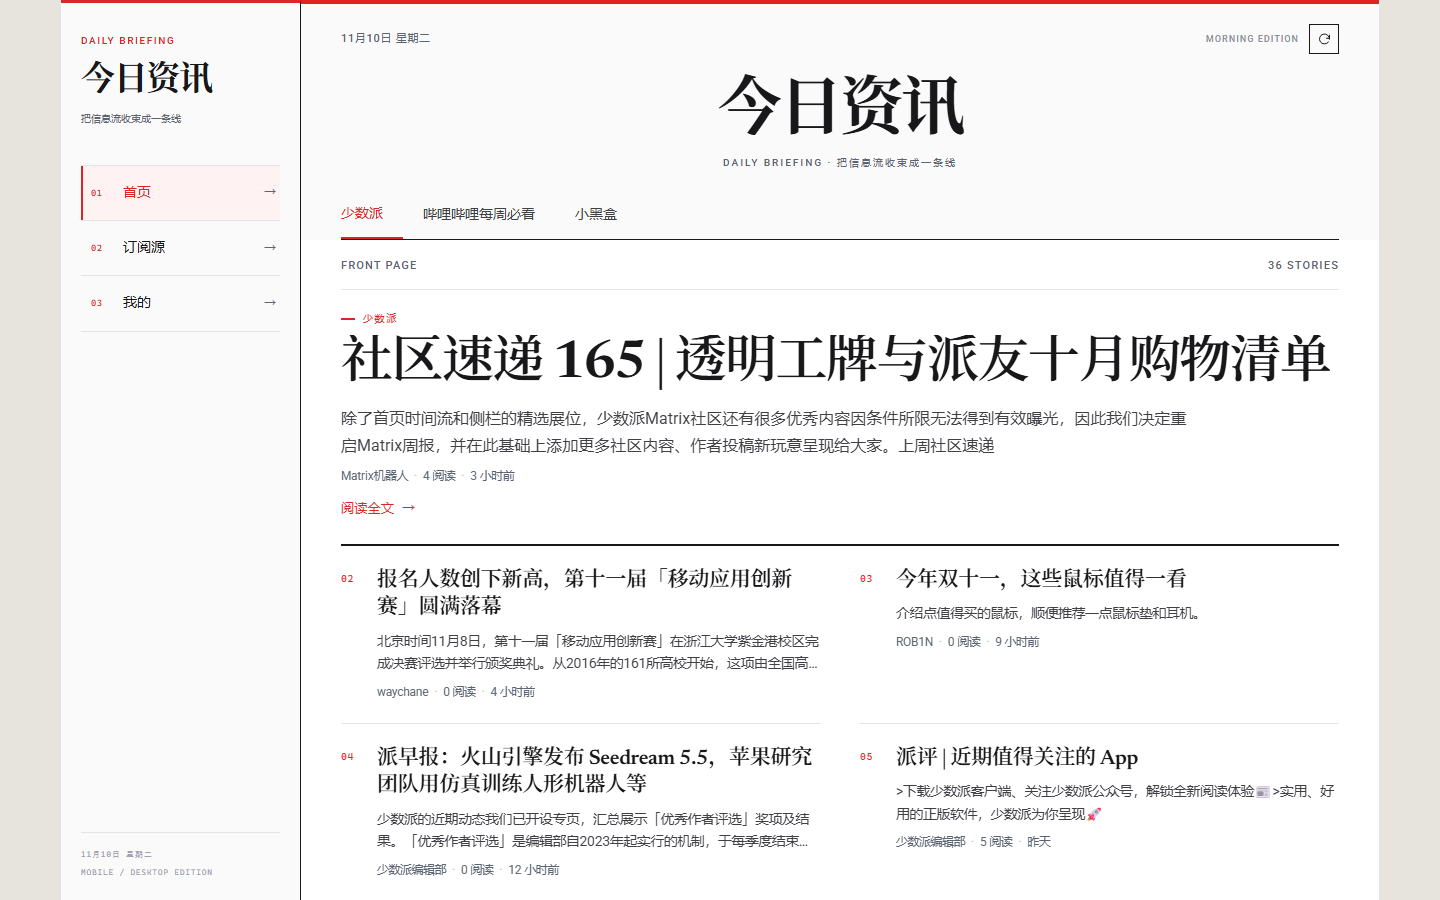
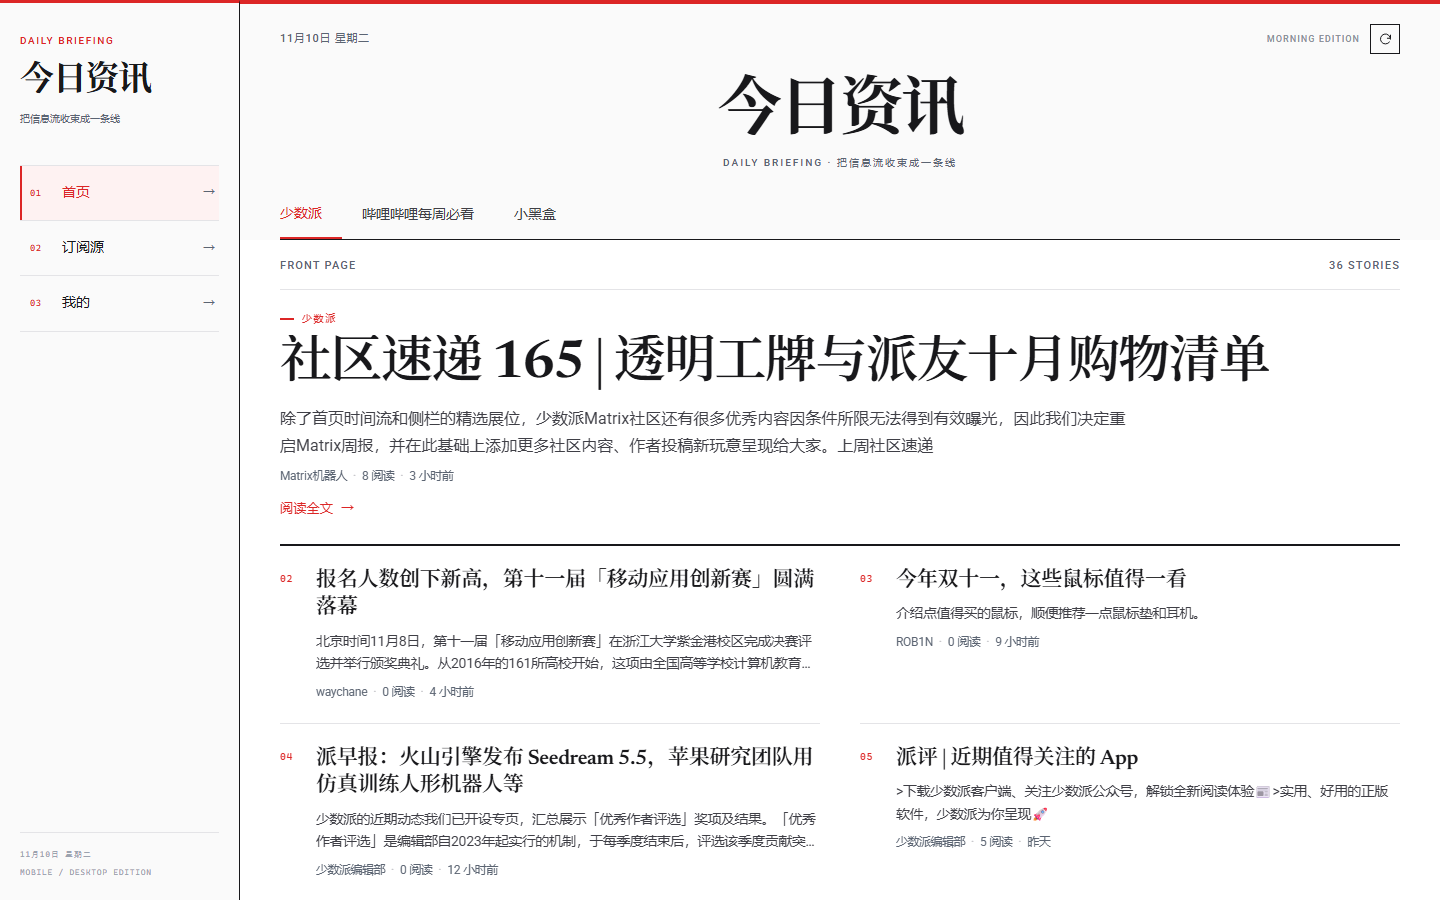
fix(frontend): make desktop layout full-bleed

diff --git a/frontend/src/views/ProfileView.vue b/frontend/src/views/ProfileView.vue
@@ -988,9 +988,9 @@ function doLogout() {
   .head-top,
   .guest,
   .me {
-    max-width: 900px;
-    margin-right: auto;
-    margin-left: auto;
+    max-width: none;
+    margin-right: 0;
+    margin-left: 0;
   }
 
   .me {
@@ -1015,12 +1015,12 @@ function doLogout() {
 
   .scroll {
     width: 100%;
-    max-width: 900px;
-    margin: 0 auto;
+    max-width: none;
+    margin: 0;
   }
 
   .tab {
-    padding: 18px 20px 15px;
+    padding: 18px 40px 15px;
   }
 
   .tab b {
@@ -1028,15 +1028,15 @@ function doLogout() {
   }
 
   .panel-head {
-    padding: 16px 18px 12px;
+    padding: 16px 40px 12px;
   }
 
   .list {
-    padding: 0 18px;
+    padding: 0 40px;
   }
 
   .account-actions {
-    padding: 28px 18px 0;
+    padding: 28px 40px 0;
   }
 
   .logout {

diff --git a/frontend/src/components/NewsFeed.vue b/frontend/src/components/NewsFeed.vue
@@ -144,8 +144,8 @@ defineExpose({ refresh })
     display: grid;
     grid-template-columns: minmax(0, 1fr) minmax(0, 1fr);
     column-gap: 40px;
-    max-width: 1080px;
-    margin: 0 auto;
+    max-width: none;
+    margin: 0;
     padding: 0 40px;
   }
 
@@ -161,6 +161,12 @@ defineExpose({ refresh })
 
   .feed :deep(.footer) {
     grid-column: 1 / -1;
+  }
+}
+
+@media (min-width: 1800px) {
+  .feed {
+    grid-template-columns: repeat(3, minmax(0, 1fr));
   }
 }
 </style>

diff --git a/frontend/src/styles/main.css b/frontend/src/styles/main.css
@@ -293,15 +293,15 @@ button:disabled {
   }
 }
 
-/* 桌面端：左侧导航 + 右侧内容区 */
+/* 桌面端：左侧导航 + 右侧内容区，整屏铺满 */
 @media (min-width: 960px) {
   body {
-    background: #e7e3dd;
+    background: var(--paper);
   }
   .app {
     flex-direction: row;
-    max-width: 1320px;
-    border-top: 0;
-    border-bottom: 0;
+    width: 100%;
+    max-width: none;
+    border: 0;
   }
 }

diff --git a/frontend/src/views/RssView.vue b/frontend/src/views/RssView.vue
@@ -556,20 +556,21 @@ h1 {
 
   .scroll {
     width: 100%;
-    max-width: 940px;
-    margin: 0 auto;
+    max-width: none;
+    margin: 0;
   }
 
   .hint {
-    padding: 18px 24px 0;
+    padding: 18px 40px 0;
   }
 
   .card {
-    margin: 20px 24px 0;
+    max-width: 760px;
+    margin: 20px 40px 0;
   }
 
   .list {
-    padding: 0 24px;
+    padding: 0 40px;
   }
 }
 </style>

diff --git a/frontend/README.md b/frontend/README.md
@@ -10,7 +10,7 @@
 - **我的**：资料展示与编辑（昵称 / 简介 / 性别）、收藏与浏览记录在同一页内切换（不跳页、不弹窗）、单条删除、行内二次清空、退出登录
 - **订阅源**：作为底部一级入口，管理 RSS 源；非管理员显示无权限提示
 - **移动端适配**：安全区、`100dvh`、底部 TabBar（首页 / 订阅源 / 我的）、下拉刷新、点击反馈、输入框防 iOS 缩放、`IntersectionObserver` 触底加载
-- **桌面端适配**：≥960px 切换为左侧编辑式导航，底部 TabBar 自动隐藏；≥1200px 首页变为双栏报纸流，详情与「我的」使用居中阅读栏
+- **桌面端适配**：≥960px 切换为左侧编辑式导航，底部 TabBar 自动隐藏，页面整屏铺满；≥1200px 首页双栏报纸流，≥1800px 升为三栏；详情与「我的」使用宽幅阅读栏
 
 ## 界面风格
 
@@ -34,7 +34,7 @@
 | --- | --- | --- |
 | ![桌面首页](screenshots/desktop-home.png) | ![桌面详情](screenshots/desktop-detail.png) | ![桌面我的](screenshots/desktop-profile.png) |
 
-> 桌面截图均为 1440 × 900 视口：左侧固定导航 + 右侧内容区，首页双栏、详情单栏阅读。
+> 桌面截图均为 1440 × 900 视口：整屏铺满，左侧固定导航 + 右侧内容区；首页双栏，超宽屏三栏。
 
 ## 快速开始
 
